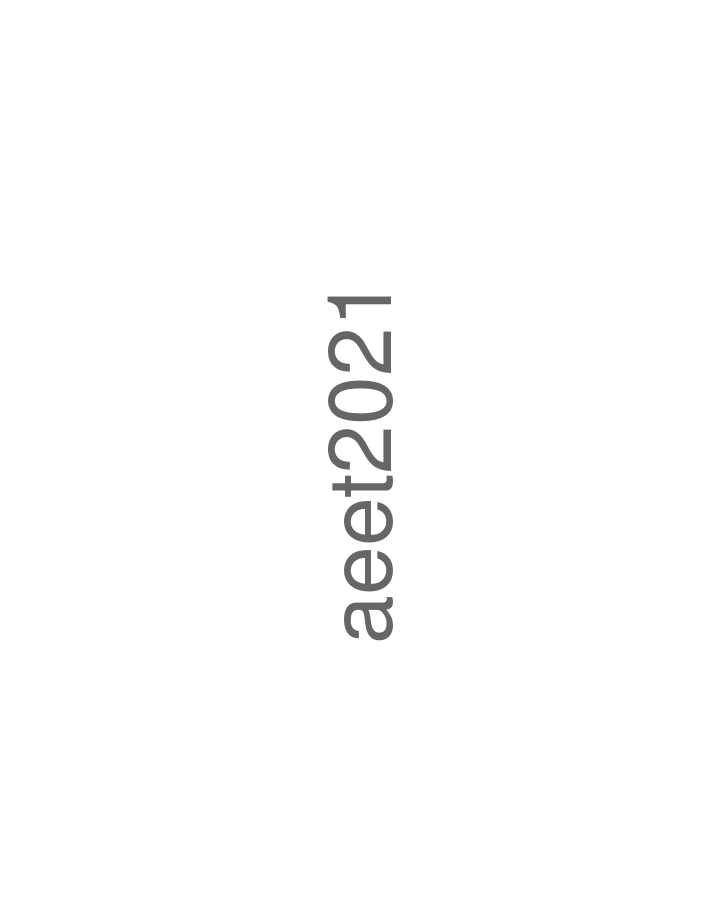
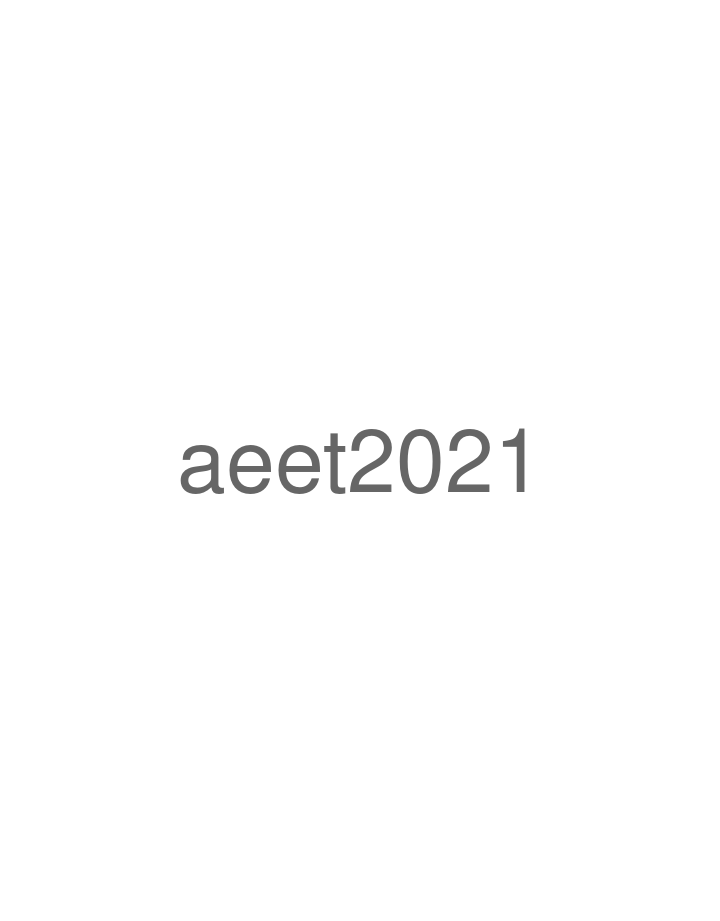
update

Changed region(s): [[0.2444, 0.304, 0.7333, 0.6992]]

diff --git a/index.html b/index.html
@@ -2674,10 +2674,10 @@ window.FlexDashboardComponents.push({
 </div>
 <div id="row-1" class="section level2">
 <h2>Row</h2>
-<div class="knitr-options" data-fig-width="1632" data-fig-height="432">
+<div class="knitr-options" data-fig-width="1632" data-fig-height="384">
 
 </div>
-<p><img src="index_files/figure-html/timeplot-1.png" width="1632" data-figure-id=fig1 /></p>
+<p><img src="index_files/figure-html/timeplot-1.png" width="100%" data-figure-id=fig1 /></p>
 </div>
 <div id="row-2" class="section level2">
 <h2>Row</h2>
@@ -2920,8 +2920,8 @@ Un poco tarde para el congreso <a href="https://twitter.com/hashtag/AEET2021?src
 <div class="knitr-options" data-fig-width="576" data-fig-height="460">
 
 </div>
-<div id="htmlwidget-d38df776a78427099c21" style="width:100%;height:auto;" class="datatables html-widget"></div>
-<script type="application/json" data-for="htmlwidget-d38df776a78427099c21">{"x":{"filter":"top","vertical":false,"filterHTML":"<tr>\n  <td><\/td>\n  <td data-type=\"character\" style=\"vertical-align: top;\">\n    <div class=\"form-group has-feedback\" style=\"margin-bottom: auto;\">\n      <input type=\"search\" placeholder=\"All\" class=\"form-control\" style=\"width: 100%;\"/>\n      <span class=\"glyphicon glyphicon-remove-circle form-control-feedback\"><\/span>\n    <\/div>\n  <\/td>\n  <td data-type=\"character\" style=\"vertical-align: top;\">\n    <div class=\"form-group has-feedback\" style=\"margin-bottom: auto;\">\n      <input type=\"search\" placeholder=\"All\" class=\"form-control\" style=\"width: 100%;\"/>\n      <span class=\"glyphicon glyphicon-remove-circle form-control-feedback\"><\/span>\n    <\/div>\n  <\/td>\n  <td data-type=\"character\" style=\"vertical-align: top;\">\n    <div class=\"form-group has-feedback\" style=\"margin-bottom: auto;\">\n      <input type=\"search\" placeholder=\"All\" class=\"form-control\" style=\"width: 100%;\"/>\n      <span class=\"glyphicon glyphicon-remove-circle form-control-feedback\"><\/span>\n    <\/div>\n  <\/td>\n  <td data-type=\"integer\" style=\"vertical-align: top;\">\n    <div class=\"form-group has-feedback\" style=\"margin-bottom: auto;\">\n      <input type=\"search\" placeholder=\"All\" class=\"form-control\" style=\"width: 100%;\"/>\n      <span class=\"glyphicon glyphicon-remove-circle form-control-feedback\"><\/span>\n    <\/div>\n    <div style=\"display: none;position: absolute;width: 200px;opacity: 1\">\n      <div data-min=\"0\" data-max=\"12\"><\/div>\n      <span style=\"float: left;\"><\/span>\n      <span style=\"float: right;\"><\/span>\n    <\/div>\n  <\/td>\n  <td data-type=\"integer\" style=\"vertical-align: top;\">\n    <div class=\"form-group has-feedback\" style=\"margin-bottom: auto;\">\n      <input type=\"search\" placeholder=\"All\" class=\"form-control\" style=\"width: 100%;\"/>\n      <span class=\"glyphicon glyphicon-remove-circle form-control-feedback\"><\/span>\n    <\/div>\n    <div style=\"display: none;position: absolute;width: 200px;opacity: 1\">\n      <div data-min=\"2\" data-max=\"49\"><\/div>\n      <span style=\"float: left;\"><\/span>\n      <span style=\"float: right;\"><\/span>\n    <\/div>\n  <\/td>\n<\/tr>","fillContainer":true,"data":[["1","2","3","4","5","6","7","8","9","10","11","12","13","14"],["<a href='https://twitter.com/_AEET_/status/1447460046334537729' target=\"_blank\">2021-10-11 07:12:22<\/a>","<a href='https://twitter.com/_AEET_/status/1447821838579605507' target=\"_blank\">2021-10-12 07:10:00<\/a>","<a href='https://twitter.com/_AEET_/status/1445653848132046848' target=\"_blank\">2021-10-06 07:35:11<\/a>","<a href='https://twitter.com/_IMIB_/status/1448911344074469378' target=\"_blank\">2021-10-15 07:19:18<\/a>","<a href='https://twitter.com/_AEET_/status/1448185385180405771' target=\"_blank\">2021-10-13 07:14:36<\/a>","<a href='https://twitter.com/GOrizaola/status/1448953375136096257' target=\"_blank\">2021-10-15 10:06:19<\/a>","<a href='https://twitter.com/_AEET_/status/1448907950794461190' target=\"_blank\">2021-10-15 07:05:49<\/a>","<a href='https://twitter.com/_AEET_/status/1447820580867035137' target=\"_blank\">2021-10-12 07:05:00<\/a>","<a href='https://twitter.com/_AEET_/status/1445699374672011264' target=\"_blank\">2021-10-06 10:36:05<\/a>","<a href='https://twitter.com/_AEET_/status/1448907962265882626' target=\"_blank\">2021-10-15 07:05:52<\/a>","<a href='https://twitter.com/Biodiv_CIENCIAS/status/1449004061802606601' target=\"_blank\">2021-10-15 13:27:44<\/a>","<a href='https://twitter.com/_AEET_/status/1448543278484361219' target=\"_blank\">2021-10-14 06:56:44<\/a>","<a href='https://twitter.com/GOrizaola/status/1449016830841049098' target=\"_blank\">2021-10-15 14:18:28<\/a>","<a href='https://twitter.com/_AEET_/status/1448907957048168473' target=\"_blank\">2021-10-15 07:05:51<\/a>"],["_AEET_","_AEET_","_AEET_","_IMIB_","_AEET_","GOrizaola","_AEET_","_AEET_","_AEET_","_AEET_","Biodiv_CIENCIAS","_AEET_","GOrizaola","_AEET_"],["7⃣ Sólo una semana para el inicio de nuestro XV Congreso #AEET2021!!!\n\nEl lunes, tras la ceremonia de inaguración. empezaremos con la charla plenaria de @_Sara_Varela @MapasLab @uvigo sobre biodiversidad, paleontología y evolución. 👇🏼👇🏼 https://t.co/uG6AOpuQvw",".. y nuestra segunda sesión plenaria #AEET2021 del martes 19 (6PM) estará a cargo de Marta Goberna @GobernaMarta @INIA_es que nos hablará sobre las comunidades microbionas y el funcionamiento de los ecosistemas terrestres. https://t.co/LOzYjff0Uj","Ya está disponible el programa de mano del Congreso #AEET2021 \n\nListado completo de ponecias plenarias, temáticas, pósters, organización de salas, actividades paralelas, conciliación familiar, código de conducta... Ya queda menos!!\nhttps://t.co/sKloZ7B7Dy https://t.co/oawQziP7rn","La próxima semana, cuatro de nuestros investigadores participarán en el XV Congreso de la @_AEET_ #AEET2021, con charlas en las sesiones:\n\nEcología del movimiento: @mariamardelgad1 \nEcosistemas aislados: Paola Laiolo y @BorjaJimAlf \nEcología evolutiva: @GOrizaola https://t.co/ziRQ3hSAs4","5⃣ días para el inicio de nuestro XV Congreso #AEET2021!!!\n\nEl miércoles 20, empezaremos el día (9AM) con la sesión plenaria de María Dornelas @maadornelas @CentreBioDiv @YoungAcademySco sobre tendencias en biodiversidad a lo largo del espacio y el tiempo. https://t.co/3wTTw58r8S","Presentation ready for my next week talk @_AEET_ meeting #AEET2021 in Plasencia, on plastic life histories and adaptation to extreme climates in amphibians (Evolutionary Ecology session; Thursday, 15:45, Room 3). ❄🐸🌞 https://t.co/osCUZU9soG","3⃣ Ya sólo quedan tres días para que comience el congreso #AEET2021 en Plasencia!!!\n\nEn el congreso, además de las charlas plenarias, tendremos 4 sesiones generales y 12 sesiones temáticas.\n\nAquí, horario, ponente y título de todas las comuncaciones orales https://t.co/VCEZdsrDzR https://t.co/dU4Hk7MEO9","6⃣ días para el inicio de nuestro XV Congreso #AEET2021!!!\n\nEl Martes 19, nuestra primera sesión plenaria (9AM) correrá a cargo de Víctor Galaz @vgalaz @sthlmresilience @Stockholm_Uni  sobre las relaciones entre personas, ecología y tecnología. https://t.co/1YIx53fY1J","Los premios, patrocinados @TransmitScience @_AEET_ @RevistaQuercus, se entregarán en la ceremonia de clausura del Congreso #AEET2021 el Plasencia, junto a los Premios @EcosistemasAEET-Lluís Balaguer a  Montserrat Vilà  y Fernando Valladares @FernandoVallada https://t.co/VpbwC3W04Z","Nos vemos el lunes en Plasencia!!! #AEET2021 https://t.co/uZBP0yktAg","Next Tuesday, October 19th, @chozas_sergio will talk about the 1st year of @Biodiv_CIENCIAS in the #AEET2021 in #Plasencia, #Spain https://t.co/yh2GlRJ0SU","4⃣ días sólo para el inicio de nuestro XV Congreso #AEET2021!!!\n\nEl jueves 21, la última charla plenaria del congreso (9AM) la impartirá David Moreno @BC3Research @HarvardGSD sobre restauración de ecosistemas. https://t.co/lWfK3AtxT7","Un poco tarde para el congreso #AEET2021, pero estos son unos consejos fantásticos para crear una buena presentación científica (o no científica). 👇🏻👇🏻 https://t.co/ivNMF7iSyV",".. y también un completo programa de presentaciones en formato póster #AEET2021, con tiempo dedicado a ellos el martes-miércoles y jueves, durante las pausas de una hora de la mañana y tarde.\n\nhttps://t.co/5fD8xmrQjT https://t.co/3EdxDcW26B"],[12,5,5,5,4,3,2,2,1,1,1,0,0,0],[49,14,10,10,13,16,10,3,14,5,2,7,4,2]],"container":"<table class=\"display fill-container\">\n  <thead>\n    <tr>\n      <th> <\/th>\n      <th>Timestamp<\/th>\n      <th>User<\/th>\n      <th>Tweet<\/th>\n      <th>RT<\/th>\n      <th>Fav<\/th>\n    <\/tr>\n  <\/thead>\n<\/table>","options":{"pageLength":10,"scrollY":600,"columnDefs":[{"className":"dt-right","targets":[4,5]},{"orderable":false,"targets":0}],"order":[],"autoWidth":false,"orderClasses":false,"orderCellsTop":true}},"evals":[],"jsHooks":[]}</script>
+<div id="htmlwidget-87b57806a04e4029e77f" style="width:100%;height:auto;" class="datatables html-widget"></div>
+<script type="application/json" data-for="htmlwidget-87b57806a04e4029e77f">{"x":{"filter":"top","vertical":false,"filterHTML":"<tr>\n  <td><\/td>\n  <td data-type=\"character\" style=\"vertical-align: top;\">\n    <div class=\"form-group has-feedback\" style=\"margin-bottom: auto;\">\n      <input type=\"search\" placeholder=\"All\" class=\"form-control\" style=\"width: 100%;\"/>\n      <span class=\"glyphicon glyphicon-remove-circle form-control-feedback\"><\/span>\n    <\/div>\n  <\/td>\n  <td data-type=\"character\" style=\"vertical-align: top;\">\n    <div class=\"form-group has-feedback\" style=\"margin-bottom: auto;\">\n      <input type=\"search\" placeholder=\"All\" class=\"form-control\" style=\"width: 100%;\"/>\n      <span class=\"glyphicon glyphicon-remove-circle form-control-feedback\"><\/span>\n    <\/div>\n  <\/td>\n  <td data-type=\"character\" style=\"vertical-align: top;\">\n    <div class=\"form-group has-feedback\" style=\"margin-bottom: auto;\">\n      <input type=\"search\" placeholder=\"All\" class=\"form-control\" style=\"width: 100%;\"/>\n      <span class=\"glyphicon glyphicon-remove-circle form-control-feedback\"><\/span>\n    <\/div>\n  <\/td>\n  <td data-type=\"integer\" style=\"vertical-align: top;\">\n    <div class=\"form-group has-feedback\" style=\"margin-bottom: auto;\">\n      <input type=\"search\" placeholder=\"All\" class=\"form-control\" style=\"width: 100%;\"/>\n      <span class=\"glyphicon glyphicon-remove-circle form-control-feedback\"><\/span>\n    <\/div>\n    <div style=\"display: none;position: absolute;width: 200px;opacity: 1\">\n      <div data-min=\"0\" data-max=\"12\"><\/div>\n      <span style=\"float: left;\"><\/span>\n      <span style=\"float: right;\"><\/span>\n    <\/div>\n  <\/td>\n  <td data-type=\"integer\" style=\"vertical-align: top;\">\n    <div class=\"form-group has-feedback\" style=\"margin-bottom: auto;\">\n      <input type=\"search\" placeholder=\"All\" class=\"form-control\" style=\"width: 100%;\"/>\n      <span class=\"glyphicon glyphicon-remove-circle form-control-feedback\"><\/span>\n    <\/div>\n    <div style=\"display: none;position: absolute;width: 200px;opacity: 1\">\n      <div data-min=\"2\" data-max=\"49\"><\/div>\n      <span style=\"float: left;\"><\/span>\n      <span style=\"float: right;\"><\/span>\n    <\/div>\n  <\/td>\n<\/tr>","fillContainer":true,"data":[["1","2","3","4","5","6","7","8","9","10","11","12","13","14"],["<a href='https://twitter.com/_AEET_/status/1447460046334537729' target=\"_blank\">2021-10-11 07:12:22<\/a>","<a href='https://twitter.com/_AEET_/status/1447821838579605507' target=\"_blank\">2021-10-12 07:10:00<\/a>","<a href='https://twitter.com/_AEET_/status/1445653848132046848' target=\"_blank\">2021-10-06 07:35:11<\/a>","<a href='https://twitter.com/_IMIB_/status/1448911344074469378' target=\"_blank\">2021-10-15 07:19:18<\/a>","<a href='https://twitter.com/_AEET_/status/1448185385180405771' target=\"_blank\">2021-10-13 07:14:36<\/a>","<a href='https://twitter.com/GOrizaola/status/1448953375136096257' target=\"_blank\">2021-10-15 10:06:19<\/a>","<a href='https://twitter.com/_AEET_/status/1448907950794461190' target=\"_blank\">2021-10-15 07:05:49<\/a>","<a href='https://twitter.com/_AEET_/status/1447820580867035137' target=\"_blank\">2021-10-12 07:05:00<\/a>","<a href='https://twitter.com/_AEET_/status/1445699374672011264' target=\"_blank\">2021-10-06 10:36:05<\/a>","<a href='https://twitter.com/_AEET_/status/1448907962265882626' target=\"_blank\">2021-10-15 07:05:52<\/a>","<a href='https://twitter.com/Biodiv_CIENCIAS/status/1449004061802606601' target=\"_blank\">2021-10-15 13:27:44<\/a>","<a href='https://twitter.com/_AEET_/status/1448543278484361219' target=\"_blank\">2021-10-14 06:56:44<\/a>","<a href='https://twitter.com/GOrizaola/status/1449016830841049098' target=\"_blank\">2021-10-15 14:18:28<\/a>","<a href='https://twitter.com/_AEET_/status/1448907957048168473' target=\"_blank\">2021-10-15 07:05:51<\/a>"],["_AEET_","_AEET_","_AEET_","_IMIB_","_AEET_","GOrizaola","_AEET_","_AEET_","_AEET_","_AEET_","Biodiv_CIENCIAS","_AEET_","GOrizaola","_AEET_"],["7⃣ Sólo una semana para el inicio de nuestro XV Congreso #AEET2021!!!\n\nEl lunes, tras la ceremonia de inaguración. empezaremos con la charla plenaria de @_Sara_Varela @MapasLab @uvigo sobre biodiversidad, paleontología y evolución. 👇🏼👇🏼 https://t.co/uG6AOpuQvw",".. y nuestra segunda sesión plenaria #AEET2021 del martes 19 (6PM) estará a cargo de Marta Goberna @GobernaMarta @INIA_es que nos hablará sobre las comunidades microbionas y el funcionamiento de los ecosistemas terrestres. https://t.co/LOzYjff0Uj","Ya está disponible el programa de mano del Congreso #AEET2021 \n\nListado completo de ponecias plenarias, temáticas, pósters, organización de salas, actividades paralelas, conciliación familiar, código de conducta... Ya queda menos!!\nhttps://t.co/sKloZ7B7Dy https://t.co/oawQziP7rn","La próxima semana, cuatro de nuestros investigadores participarán en el XV Congreso de la @_AEET_ #AEET2021, con charlas en las sesiones:\n\nEcología del movimiento: @mariamardelgad1 \nEcosistemas aislados: Paola Laiolo y @BorjaJimAlf \nEcología evolutiva: @GOrizaola https://t.co/ziRQ3hSAs4","5⃣ días para el inicio de nuestro XV Congreso #AEET2021!!!\n\nEl miércoles 20, empezaremos el día (9AM) con la sesión plenaria de María Dornelas @maadornelas @CentreBioDiv @YoungAcademySco sobre tendencias en biodiversidad a lo largo del espacio y el tiempo. https://t.co/3wTTw58r8S","Presentation ready for my next week talk @_AEET_ meeting #AEET2021 in Plasencia, on plastic life histories and adaptation to extreme climates in amphibians (Evolutionary Ecology session; Thursday, 15:45, Room 3). ❄🐸🌞 https://t.co/osCUZU9soG","3⃣ Ya sólo quedan tres días para que comience el congreso #AEET2021 en Plasencia!!!\n\nEn el congreso, además de las charlas plenarias, tendremos 4 sesiones generales y 12 sesiones temáticas.\n\nAquí, horario, ponente y título de todas las comuncaciones orales https://t.co/VCEZdsrDzR https://t.co/dU4Hk7MEO9","6⃣ días para el inicio de nuestro XV Congreso #AEET2021!!!\n\nEl Martes 19, nuestra primera sesión plenaria (9AM) correrá a cargo de Víctor Galaz @vgalaz @sthlmresilience @Stockholm_Uni  sobre las relaciones entre personas, ecología y tecnología. https://t.co/1YIx53fY1J","Los premios, patrocinados @TransmitScience @_AEET_ @RevistaQuercus, se entregarán en la ceremonia de clausura del Congreso #AEET2021 el Plasencia, junto a los Premios @EcosistemasAEET-Lluís Balaguer a  Montserrat Vilà  y Fernando Valladares @FernandoVallada https://t.co/VpbwC3W04Z","Nos vemos el lunes en Plasencia!!! #AEET2021 https://t.co/uZBP0yktAg","Next Tuesday, October 19th, @chozas_sergio will talk about the 1st year of @Biodiv_CIENCIAS in the #AEET2021 in #Plasencia, #Spain https://t.co/yh2GlRJ0SU","4⃣ días sólo para el inicio de nuestro XV Congreso #AEET2021!!!\n\nEl jueves 21, la última charla plenaria del congreso (9AM) la impartirá David Moreno @BC3Research @HarvardGSD sobre restauración de ecosistemas. https://t.co/lWfK3AtxT7","Un poco tarde para el congreso #AEET2021, pero estos son unos consejos fantásticos para crear una buena presentación científica (o no científica). 👇🏻👇🏻 https://t.co/ivNMF7iSyV",".. y también un completo programa de presentaciones en formato póster #AEET2021, con tiempo dedicado a ellos el martes-miércoles y jueves, durante las pausas de una hora de la mañana y tarde.\n\nhttps://t.co/5fD8xmrQjT https://t.co/3EdxDcW26B"],[12,5,5,5,4,3,2,2,1,1,1,0,0,0],[49,14,10,10,13,16,10,3,14,5,2,7,4,2]],"container":"<table class=\"display fill-container\">\n  <thead>\n    <tr>\n      <th> <\/th>\n      <th>Timestamp<\/th>\n      <th>User<\/th>\n      <th>Tweet<\/th>\n      <th>RT<\/th>\n      <th>Fav<\/th>\n    <\/tr>\n  <\/thead>\n<\/table>","options":{"pageLength":10,"scrollY":600,"columnDefs":[{"className":"dt-right","targets":[4,5]},{"orderable":false,"targets":0}],"order":[],"autoWidth":false,"orderClasses":false,"orderCellsTop":true}},"evals":[],"jsHooks":[]}</script>
 </div>
 
 </div>
